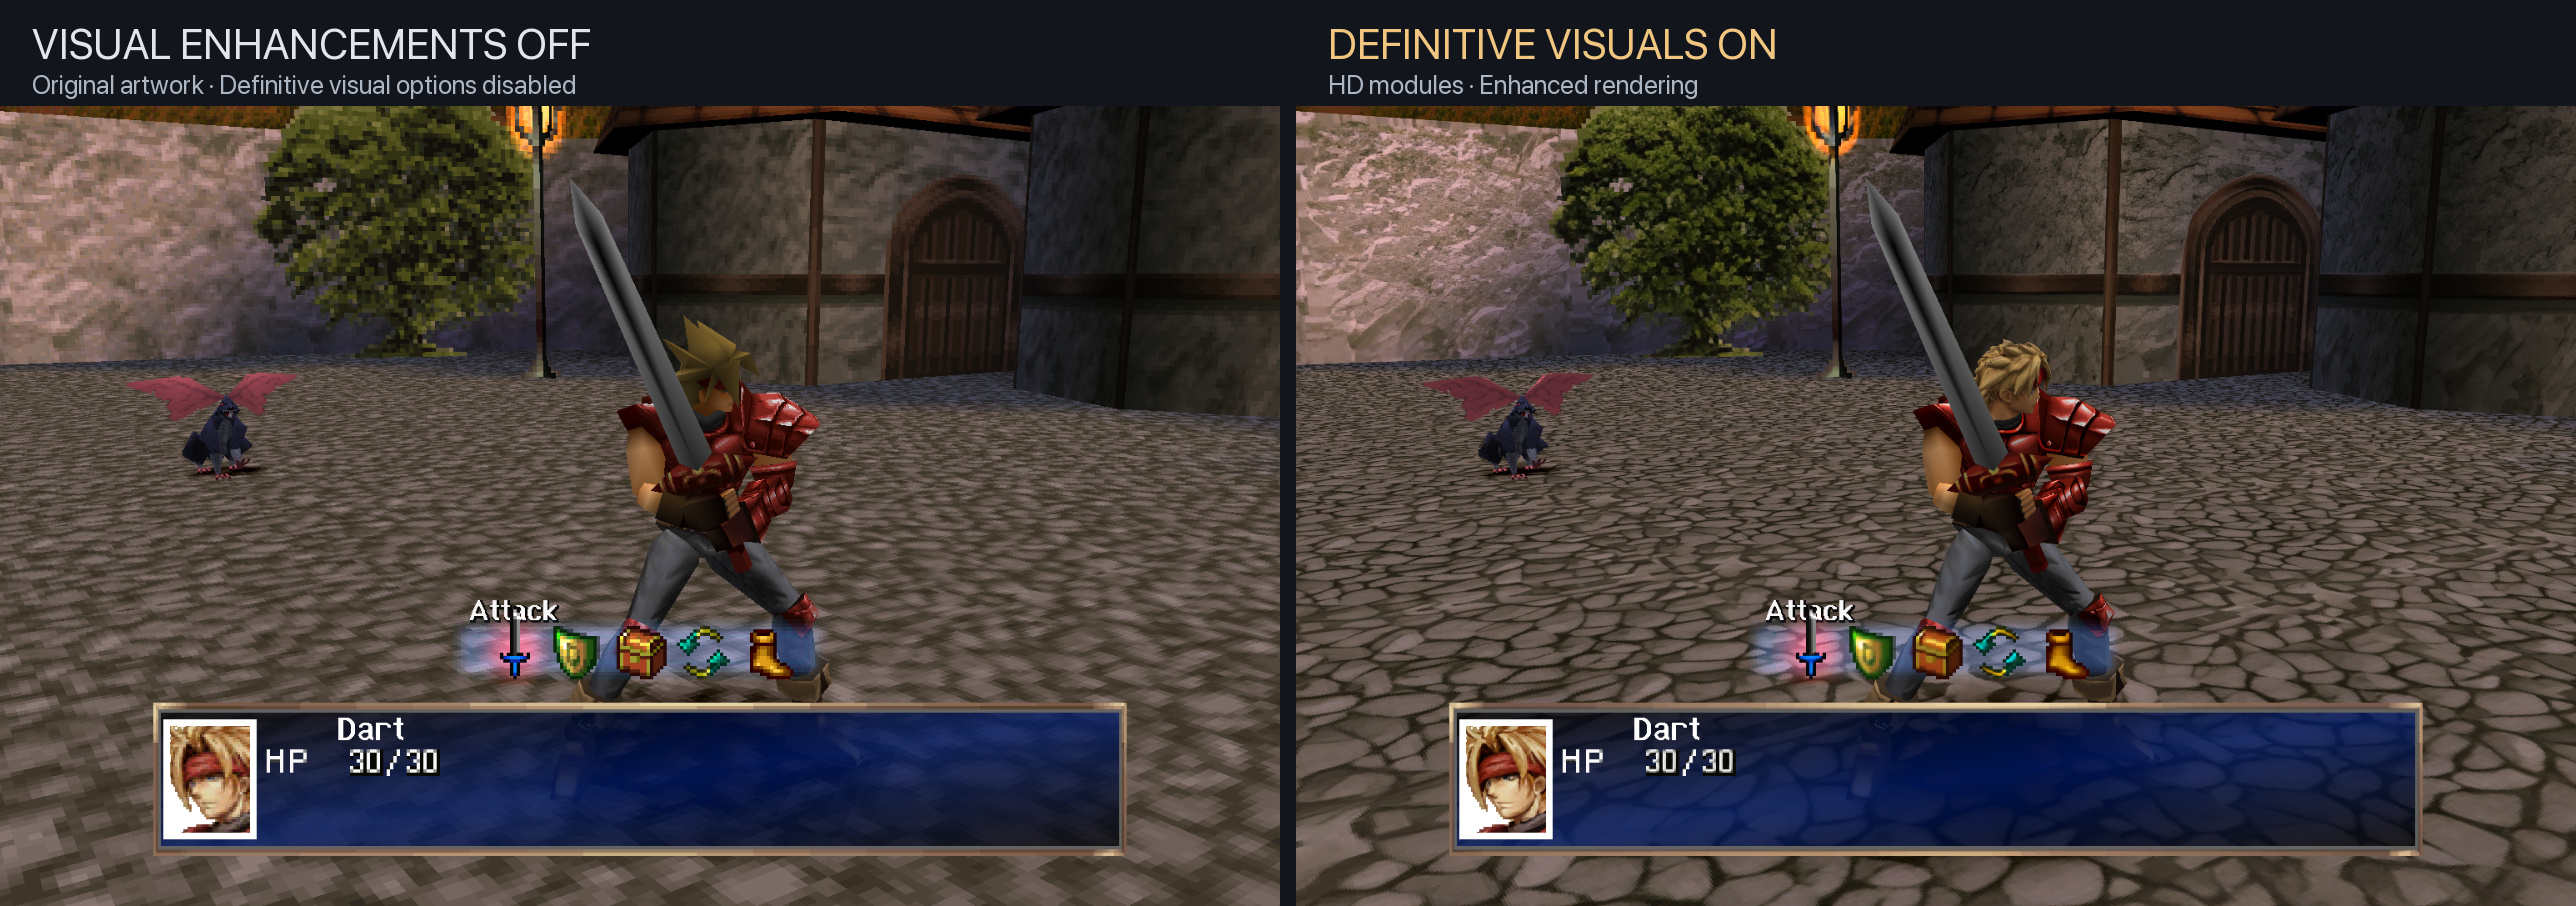
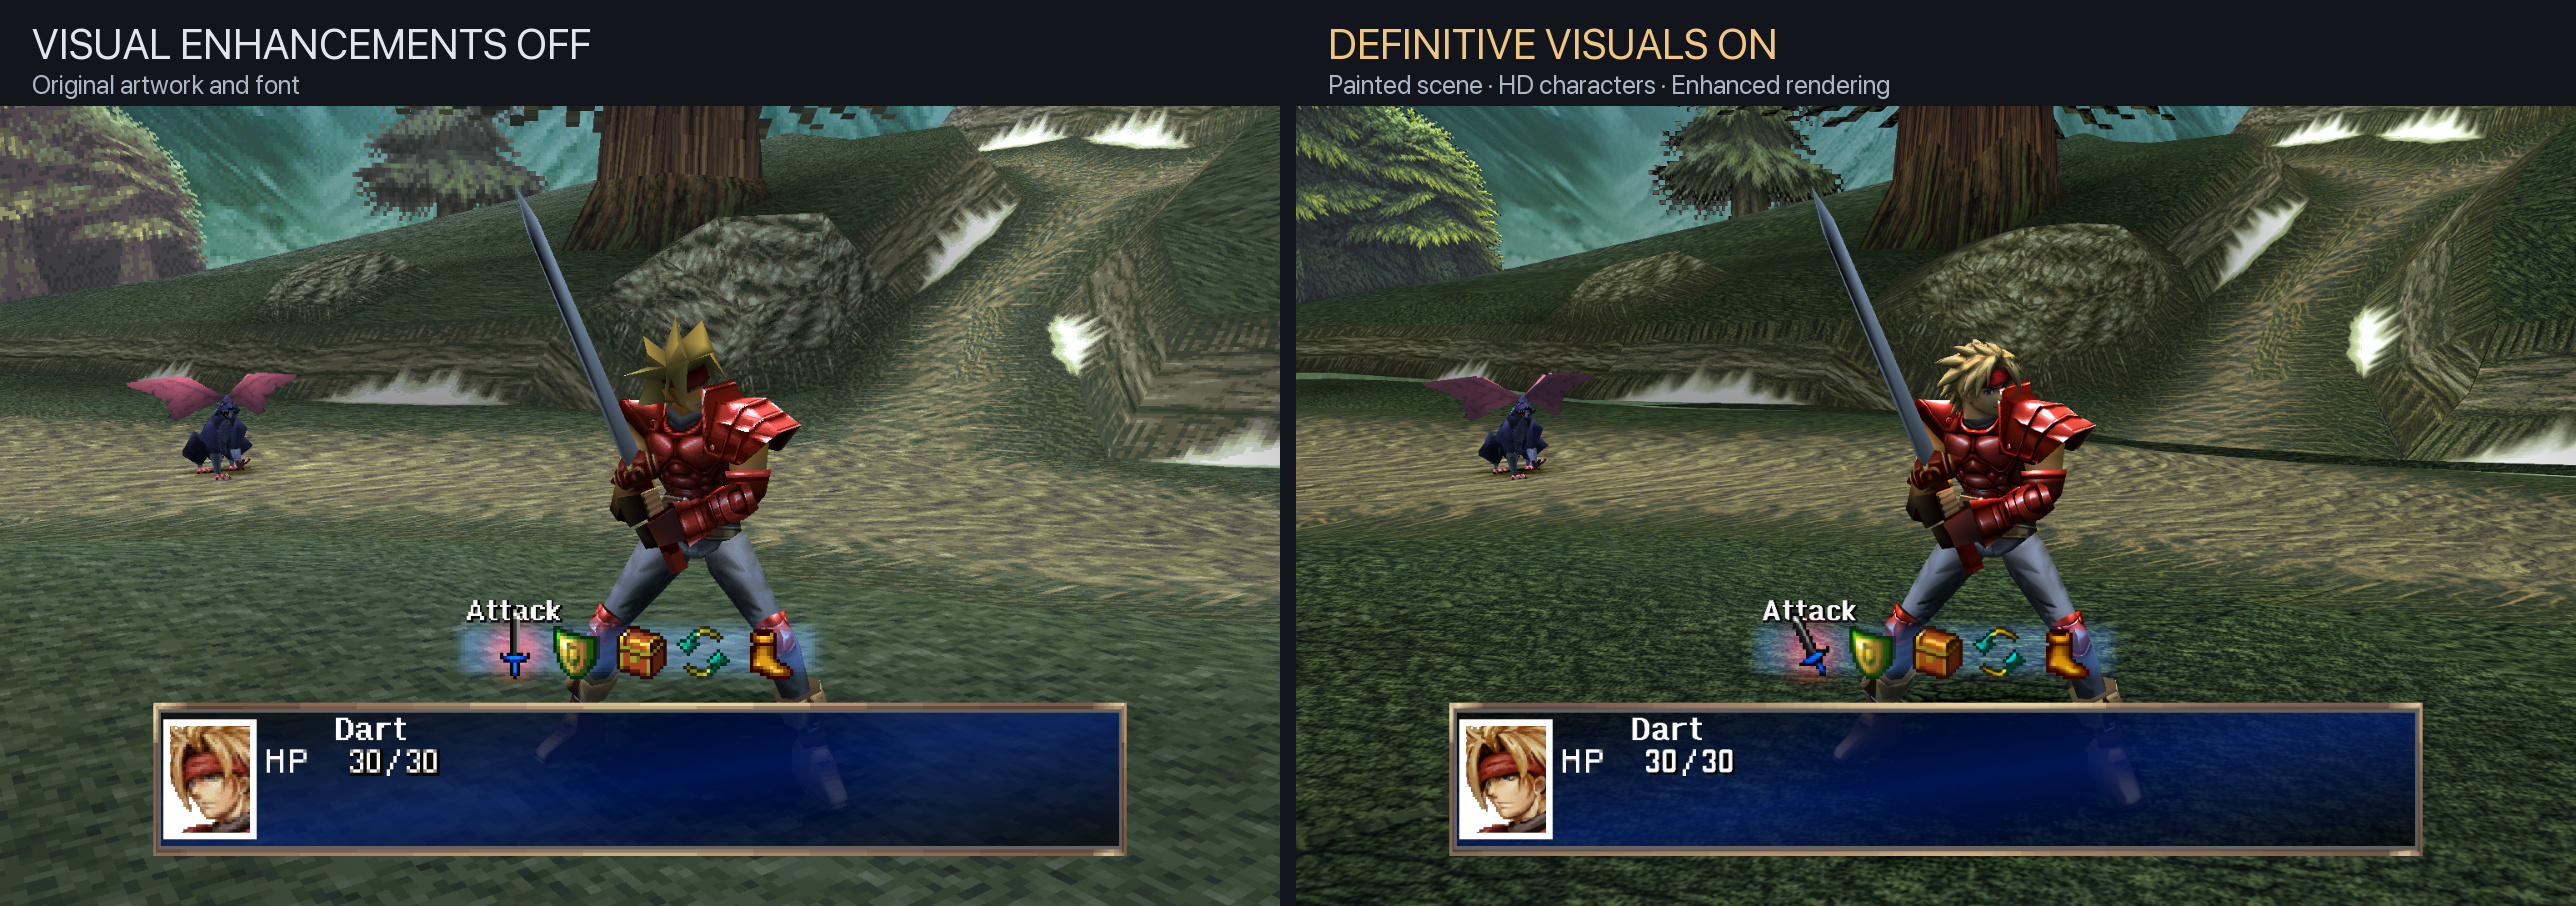
Refresh battle comparisons with fully repainted Evergreen Forest

diff --git a/docs/definitive/images/comparisons/README.md b/docs/definitive/images/comparisons/README.md
@@ -5,21 +5,21 @@ The main README uses matched captures from the native Mac game renderer.
 | Figure | What it shows |
 | --- | --- |
 | `field-visuals-off-on.jpg` | The forest cliff field scene, including its layered scenery. |
-| `battle-visuals-off-on.jpg` | Dart, the battle environment and the interface in a wider scene. |
+| `battle-visuals-off-on.jpg` | Evergreen Forest’s repainted ground, trees and foliage, with Dart and the battle interface. |
 | `battle-detail-off-on.jpg` | A closer view of Dart's reconstructed head, costume and surface rendering. |
 | `meru-native-off-on.jpg` | Meru's geometry, costume and surface rendering in a front-facing pose. |
 
 ## Matched in-engine visual comparisons
 
-Each side is captured at **1280 × 800** with matching camera coordinates, character position, rotation, keyframe and normal **1× actor scale**. No actor enlargement is used. The field scene uses its native camera at cut 5, scene 0. The battle scenes use encounter 0, stage 0.
+Each side is captured at **1280 × 800** with matching camera coordinates, character position, rotation, keyframe and normal **1× actor scale**. No actor enlargement is used. The field scene uses its native camera at cut 5, scene 0. The refreshed battle scenes use encounter 0, stage 36 (Evergreen Forest). All thirteen static material regions in this stage use HD repaints.
 
-The baseline disables all seven HD modules and Definitive's visual rendering controls. The enhanced sessions enable the seven modules, including all four EnvHD resource packs, and the visual controls. The turn-order overlay is hidden on both sides; resolution and gameplay convenience settings remain the same. Meru uses a separate battle fixture with her as the sole active party member.
+The baseline disables all seven HD modules and Definitive's visual rendering controls. The enhanced sessions enable the seven modules, including all four EnvHD resource packs, and the visual controls. The turn-order overlay is hidden on both sides; resolution and gameplay convenience settings remain the same. Meru uses a separate battle fixture with her as the sole active party member. Both sides configure the Original font; UIHD automatically supplies Original HD text and the integrated small native battle digits on the enhanced side. Other font families remain on their current paths, so these images do not imply complete font coverage.
 
 The enhanced controls include SMAA, model/material and scene lighting, effect lighting, soft contact shadows, HD filtering, surface detail, interface protection, 0.25 scene bloom, 0.2 sharpening and 0.5 edge smoothing. No active spell is shown, and still images cannot demonstrate film playback, audio or every rendering feature. Audio was muted during capture.
 
 The captures use isolated fresh game states, seeded battle fixtures, held character keyframes and renderer debug frame advancement. The field fixture performs normal title resource cleanup and pauses scripts after loading. These are controlled visual comparisons, rather than continuous gameplay or Steam Deck performance measurements.
 
-The figures preserve the framebuffer pixels without resizing, cropping, retouching or additional sharpening. Only labels, a separating gutter and JPEG encoding are added. `in-engine-comparisons.json` records the exact engine revision, module and image hashes, settings, camera coordinates and capture limitations. The engine revision is `0af4f997e27f49783180cb2ff1c5a04012467289`; the character modules are ModelsHD 0.4.0 and CharHD 0.3.0.
+The figures preserve the framebuffer pixels without resizing, cropping, retouching or additional sharpening. Only labels, a separating gutter and JPEG encoding are added. `in-engine-comparisons.json` records the exact engine revision, module and image hashes, settings, camera coordinates and capture limitations. The refreshed battle engine and custom modules use main revision `4818f2d9c285b7541f4f4ce82cbedde5b3d19fcf`. The unchanged field figure retains revision `0af4f997e27f49783180cb2ff1c5a04012467289`. Per-figure hashes distinguish their packages; ModelsHD 0.4.0 and CharHD 0.3.0 are used in both.
 
 Only finished figures and sanitized provenance are included here. Original game files, discs, saves and private capture controls remain separate. Original designs and artwork belong to their respective rights holders; custom artwork and geometry retain the project and module notices.
 

diff --git a/README.md b/README.md
@@ -28,7 +28,7 @@ The environment library includes **4,938 field images**, with separate backgroun
 
 ![Matched battle view with all Definitive visual enhancements disabled on the left and enabled on the right](docs/definitive/images/comparisons/battle-visuals-off-on.jpg)
 
-*Battle scene · Visual enhancements off → on.*
+*Evergreen Forest · Repainted ground, bark and foliage. Visual enhancements off → on.*
 
 **About the comparisons:** all four pairs on this page were captured in the native Mac game renderer at 1280 × 800, with matching cameras, poses and normal character scale. HD modules and visual rendering options are off on the left and on on the right. [Capture details](docs/definitive/images/comparisons/README.md#matched-in-engine-visual-comparisons).
 
